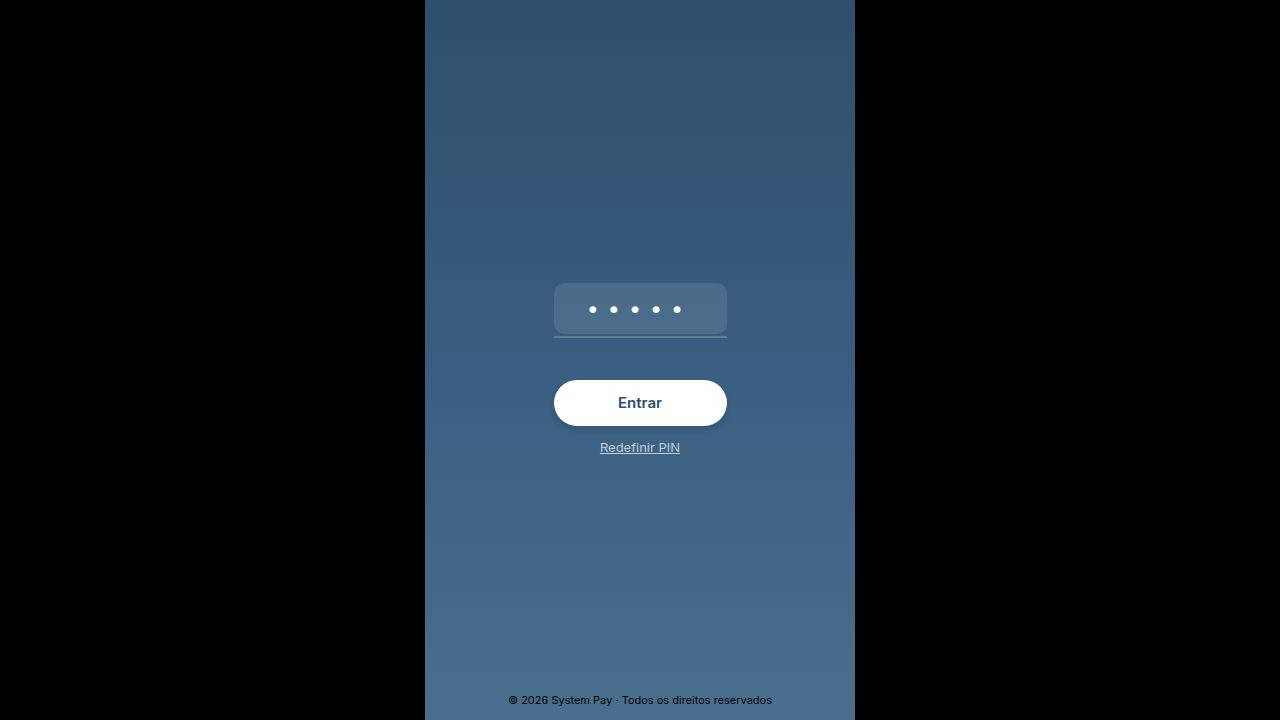
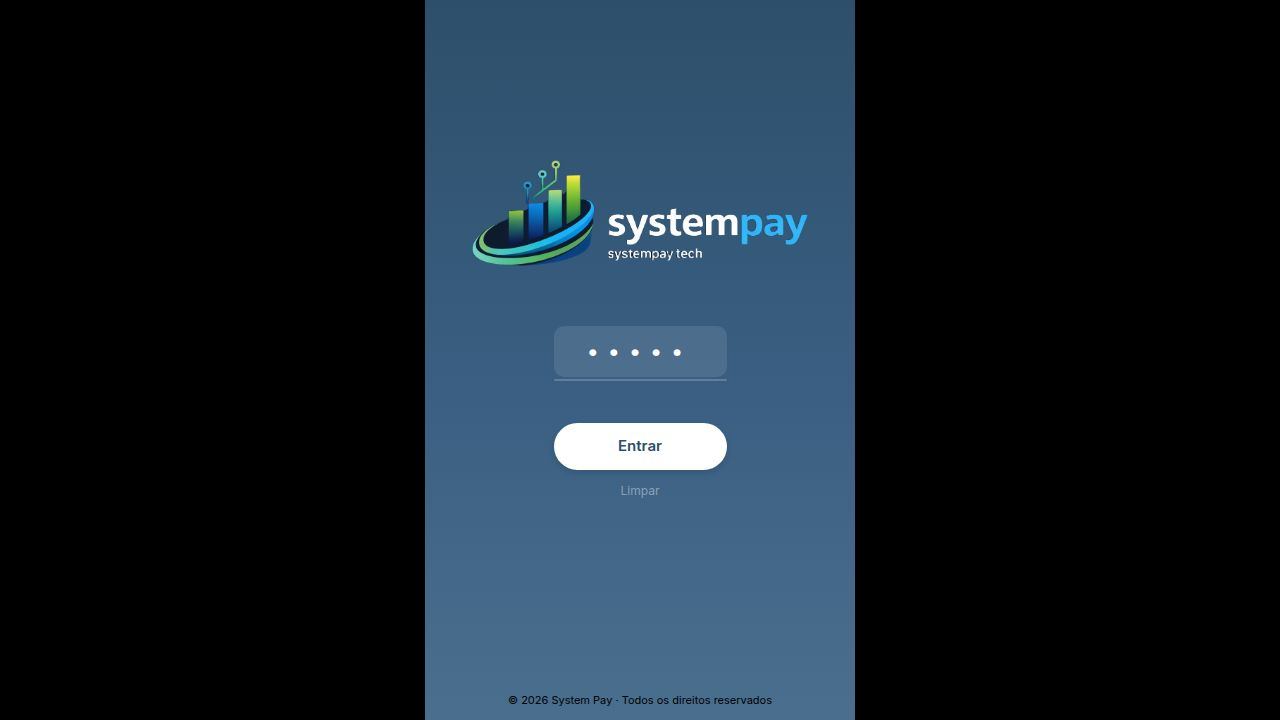
Add detailed financial snapshot when closing cash register and display route data
Update API to store financial snapshot data on cash register closure and add a new endpoint to retrieve closure data for a specific route. Modify the client list page to send this snapshot data and the dashboard page to fetch and display it.

Replit-Commit-Author: Agent
Replit-Commit-Session-Id: f2c3b37e-782e-4115-99a4-a7c69f35104c
Replit-Commit-Checkpoint-Type: full_checkpoint
Replit-Commit-Event-Id: 258a8a9c-c051-46f8-8813-6c30aa49fb4a
Replit-Commit-Screenshot-Url: https://storage.googleapis.com/screenshot-production-us-central1/714571c2-bfa9-4cb9-8b4c-75192a692529/f2c3b37e-782e-4115-99a4-a7c69f35104c/wVubsgN
Replit-Helium-Checkpoint-Created: true

Changed region(s): [[0.4062, 0.4278, 0.5938, 0.6722], [0.3438, 0.2139, 0.625, 0.3667]]

diff --git a/artifacts/api-server/src/routes/caixa.ts b/artifacts/api-server/src/routes/caixa.ts
@@ -1,6 +1,6 @@
 import { Router, type IRouter } from "express";
-import { eq, and } from "drizzle-orm";
-import { db, caixaTable, movimentosCaixaTable } from "@workspace/db";
+import { eq, and, desc } from "drizzle-orm";
+import { db, caixaTable, movimentosCaixaTable, aplicativosTable } from "@workspace/db";
 
 const router: IRouter = Router();
 
@@ -37,12 +37,65 @@ router.post("/caixa/abrir", async (req, res): Promise<void> => {
 });
 
 router.post("/caixa/fechar", async (req, res): Promise<void> => {
-  const { cobradorId, dataFechamento, saldoFinal } = req.body;
+  const { cobradorId, dataFechamento, saldoFinal, dadosSnapshot } = req.body;
   if (!cobradorId || !dataFechamento) { res.status(400).json({ error: "cobradorId e dataFechamento são obrigatórios" }); return; }
-  const [caixa] = await db.update(caixaTable).set({ status: "fechado", dataFechamento, saldoFinal: String(saldoFinal ?? 0) })
-    .where(and(eq(caixaTable.cobradorId, Number(cobradorId)), eq(caixaTable.status, "aberto"))).returning();
-  if (!caixa) { res.status(404).json({ error: "Nenhum caixa aberto encontrado" }); return; }
+
+  const snapshotJson = dadosSnapshot ? JSON.stringify(dadosSnapshot) : null;
+
+  const [existing] = await db.select().from(caixaTable).where(
+    and(eq(caixaTable.cobradorId, Number(cobradorId)), eq(caixaTable.status, "aberto"))
+  );
+
+  let caixa;
+  if (existing) {
+    [caixa] = await db.update(caixaTable)
+      .set({ status: "fechado", dataFechamento, saldoFinal: String(saldoFinal ?? 0), dadosSnapshot: snapshotJson })
+      .where(and(eq(caixaTable.cobradorId, Number(cobradorId)), eq(caixaTable.status, "aberto")))
+      .returning();
+  } else {
+    const hoje = new Date();
+    const dataAbertura = `${hoje.getFullYear()}-${String(hoje.getMonth()+1).padStart(2,"0")}-${String(hoje.getDate()).padStart(2,"0")}`;
+    [caixa] = await db.insert(caixaTable).values({
+      cobradorId: Number(cobradorId),
+      dataAbertura,
+      dataFechamento,
+      saldoInicial: String(dadosSnapshot?.caixaInicial ?? 0),
+      saldoFinal: String(saldoFinal ?? 0),
+      status: "fechado",
+      dadosSnapshot: snapshotJson,
+    }).returning();
+  }
+
+  if (!caixa) { res.status(500).json({ error: "Erro ao fechar caixa" }); return; }
   res.json(caixa);
+});
+
+router.get("/caixa/fechamento-rota", async (req, res): Promise<void> => {
+  const { rota } = req.query;
+  if (!rota) { res.status(400).json({ error: "rota é obrigatória" }); return; }
+
+  const [aplicativo] = await db.select().from(aplicativosTable)
+    .where(eq(aplicativosTable.rota, String(rota)));
+
+  if (!aplicativo) { res.json(null); return; }
+
+  const [caixa] = await db.select().from(caixaTable)
+    .where(and(eq(caixaTable.cobradorId, aplicativo.id), eq(caixaTable.status, "fechado")))
+    .orderBy(desc(caixaTable.dataFechamento))
+    .limit(1);
+
+  if (!caixa || !caixa.dadosSnapshot) { res.json(null); return; }
+
+  try {
+    const snapshot = JSON.parse(caixa.dadosSnapshot);
+    res.json({
+      ...snapshot,
+      dataFechamento: caixa.dataFechamento,
+      dataInicio: snapshot.dataInicio ?? caixa.dataAbertura,
+    });
+  } catch {
+    res.json(null);
+  }
 });
 
 router.get("/caixa/movimentos", async (req, res): Promise<void> => {
@@ -54,14 +107,17 @@ router.get("/caixa/movimentos", async (req, res): Promise<void> => {
 });
 
 router.post("/caixa/movimentos", async (req, res): Promise<void> => {
-  const { cobradorId, tipo, conceito, valor, data, obs } = req.body;
-  if (!cobradorId || !tipo || !conceito || !valor || !data) {
-    res.status(400).json({ error: "Campos obrigatórios: cobradorId, tipo, conceito, valor, data" });
+  const { cobradorId, tipo, conceito, categoria, valor, data, obs, observacao } = req.body;
+  const conceitoFinal = conceito ?? categoria;
+  if (!cobradorId || !tipo || !conceitoFinal || !valor || !data) {
+    res.status(400).json({ error: "Campos obrigatórios: cobradorId, tipo, conceito/categoria, valor, data" });
     return;
   }
   const [movimento] = await db.insert(movimentosCaixaTable).values({
     cobradorId: Number(cobradorId),
-    tipo, conceito, obs,
+    tipo,
+    conceito: conceitoFinal,
+    obs: obs ?? observacao,
     valor: String(valor),
     data,
   }).returning();

diff --git a/artifacts/cobranca-app/src/pages/ListaClientes.tsx b/artifacts/cobranca-app/src/pages/ListaClientes.tsx
@@ -1,6 +1,6 @@
 import { useState, useEffect, Fragment, type ReactNode } from "react";
 import { loadDB, saveDB, getTodayStr } from "../lib/storage";
-import { postPagamentoAPI, postMovimentoCaixaAPI, getSaldoInicial } from "../lib/api";
+import { postPagamentoAPI, postMovimentoCaixaAPI, postFechamentoCaixaAPI, getRotaSessao, getSaldoInicial } from "../lib/api";
 import { ArrowLeft, Trash2 } from "lucide-react";
 import { ParcelaCliente } from "./ParcelaCliente";
 import { CadastroCliente } from "./CadastroCliente";
@@ -1628,6 +1628,50 @@ export function ListaClientes({ onSair, cobradorId = 0 }: { onSair?: () => void;
           data: dataStr2,
         });
       });
+
+      const rotaSessao = getRotaSessao();
+      if (rotaSessao) {
+        const recebAtualSnap = cobradosValores.reduce((s, x) => s + x.valor, 0);
+        const totalDespesasSnap = despesas.filter(d => d.categoria !== "Retirada de Caixa").reduce((s, d) => s + d.valor, 0);
+        const retiradaSnap = despesas.filter(d => d.categoria === "Retirada de Caixa").reduce((s, d) => s + d.valor, 0);
+        const totalRendimentosSnap = rendimentos.reduce((s, r) => s + r.valor, 0);
+        const novosEmpSnap = emprestimentos.reduce((s, e) => s + (e.valorEmprestado ?? 0), 0);
+        const caixaFinalSnap = caixaInicial + recebAtualSnap + totalRendimentosSnap - novosEmpSnap - totalDespesasSnap - retiradaSnap;
+        const carteiraInicialSnap = clientes.filter(c => c.saldo > 0).reduce((s, c) => s + c.saldo, 0);
+        const recebPrevisto = clientes.filter(c => c.saldo > 0).reduce((s, c) => s + c.parcela, 0);
+        postFechamentoCaixaAPI({
+          cobradorId,
+          dataFechamento: dataStr2,
+          saldoFinal: caixaFinalSnap,
+          dadosSnapshot: {
+            cod: cobradorId,
+            dataInicio: dataStr2,
+            dataFechamento: dataStr2,
+            ultimoAcesso: new Date().toISOString(),
+            clientesIniciais: clientes.filter(c => c.saldo > 0).length,
+            sincronizados: clientes.filter(c => c.saldo > 0).length,
+            clientesNovos: novosClientesIds.size,
+            renovados: renovacoesIds.size,
+            cancelados: quitadosClientes.length,
+            caixaInicial,
+            carteiraInicial: carteiraInicialSnap,
+            recebPrevisto,
+            recebAtual: recebAtualSnap,
+            pagos: cobrados.length,
+            noPagos: ausentes.length,
+            efetivo: 0,
+            transferencia: 0,
+            novosEmp: novosEmpSnap,
+            juros: 0,
+            rendimentos: totalRendimentosSnap,
+            despesas: totalDespesasSnap,
+            retirada: retiradaSnap,
+            caixaFinal: caixaFinalSnap,
+            carteiraFinal: Math.max(0, carteiraInicialSnap - recebAtualSnap + novosEmpSnap),
+            sancao: 0,
+          },
+        });
+      }
     }
     setCaixaFechadoHoje(true);
     setClientes(clientesMerged);

diff --git a/artifacts/cobranca-app/src/lib/api.ts b/artifacts/cobranca-app/src/lib/api.ts
@@ -194,6 +194,46 @@ export async function postNovoClienteAPI(data: {
   }
 }
 
+export async function postFechamentoCaixaAPI(data: {
+  cobradorId: number;
+  dataFechamento: string;
+  saldoFinal: number;
+  dadosSnapshot: {
+    cod: number;
+    dataInicio: string;
+    dataFechamento: string;
+    ultimoAcesso: string;
+    clientesIniciais: number;
+    sincronizados: number;
+    clientesNovos: number;
+    renovados: number;
+    cancelados: number;
+    caixaInicial: number;
+    carteiraInicial: number;
+    recebPrevisto: number;
+    recebAtual: number;
+    pagos: number;
+    noPagos: number;
+    efetivo: number;
+    transferencia: number;
+    novosEmp: number;
+    juros: number;
+    rendimentos: number;
+    despesas: number;
+    retirada: number;
+    caixaFinal: number;
+    carteiraFinal: number;
+    sancao: number;
+  };
+}): Promise<boolean> {
+  try {
+    await apiPost("/caixa/fechar", data);
+    return true;
+  } catch {
+    return false;
+  }
+}
+
 export async function postNovoEmprestimoAPI(data: {
   clienteId: number;
   cobradorId: number;

diff --git a/artifacts/web-platform/src/pages/dashboard.tsx b/artifacts/web-platform/src/pages/dashboard.tsx
@@ -5033,6 +5033,21 @@ export default function DashboardPage() {
   const [importedRotaData, setImportedRotaData] = useState<Record<string, RotaFakeData>>({});
   const [importedRotas, setImportedRotas] = useState<Record<string, { cidade: string; vendedor: string; data: string; ativa: boolean }[]>>({});
 
+  useEffect(() => {
+    if (!selectedRota) return;
+    fetch(`${import.meta.env.BASE_URL}api/caixa/fechamento-rota?rota=${encodeURIComponent(selectedRota)}`)
+      .then(r => r.ok ? r.json() : null)
+      .then((data: RotaFakeData | null) => {
+        if (data) {
+          setImportedRotaData(prev => {
+            if (prev[selectedRota]) return prev;
+            return { ...prev, [selectedRota]: data };
+          });
+        }
+      })
+      .catch(() => {});
+  }, [selectedRota]);
+
   const [configOpen, setConfigOpen] = useState(false);
   const [listaClientesOpen, setListaClientesOpen] = useState(false);
   const [caixaAberto, setCaixaAberto] = useState(true);

diff --git a/lib/db/src/schema/movimentos_caixa.ts b/lib/db/src/schema/movimentos_caixa.ts
@@ -22,6 +22,7 @@ export const caixaTable = pgTable("caixa", {
   saldoInicial: numeric("saldo_inicial", { precision: 12, scale: 2 }).notNull().default("0"),
   saldoFinal: numeric("saldo_final", { precision: 12, scale: 2 }),
   status: text("status").notNull().default("aberto"),
+  dadosSnapshot: text("dados_snapshot"),
   criadoEm: timestamp("criado_em", { withTimezone: true }).notNull().defaultNow(),
   atualizadoEm: timestamp("atualizado_em", { withTimezone: true }).notNull().defaultNow().$onUpdate(() => new Date()),
 });